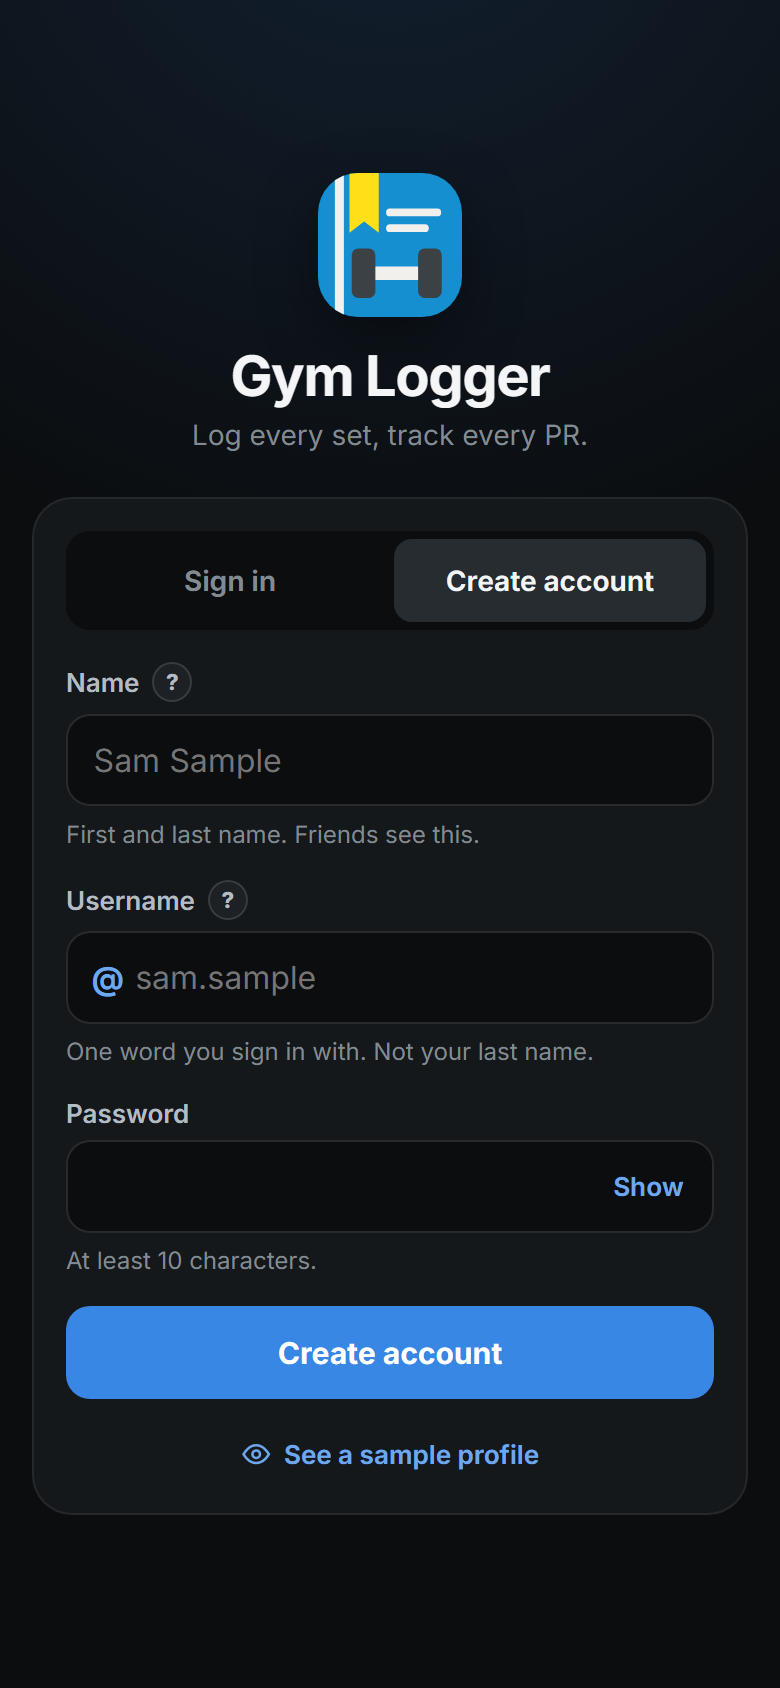
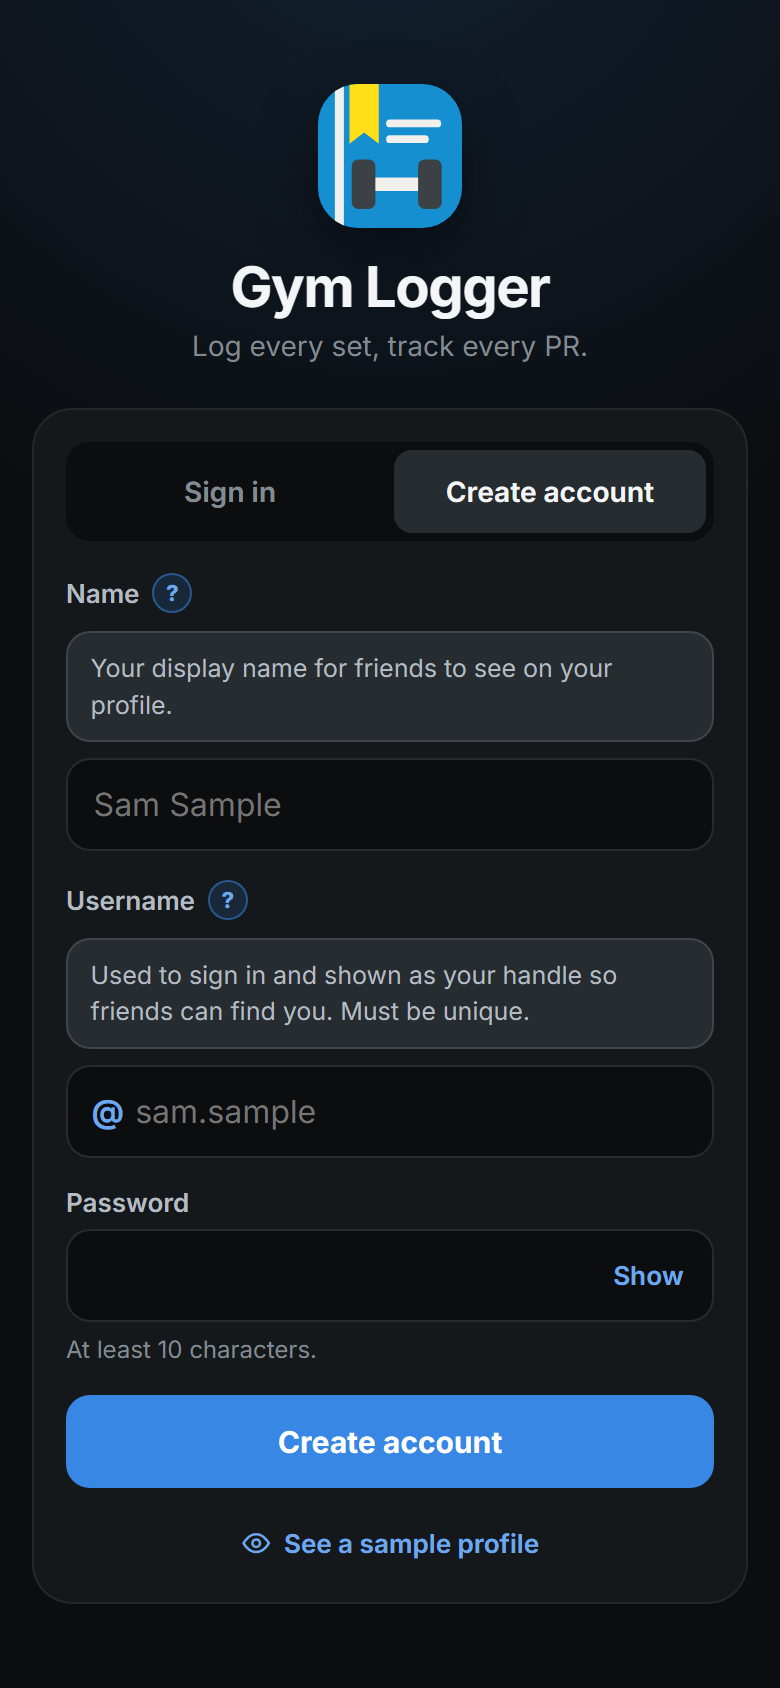
Remove the Name and Username hints on Create account
The ? help now carries the explanation, so the "First and last name"
and "One word you sign in with" hints under the fields are removed.
The release screenshot shows both ? help boxes open.

diff --git a/frontend/src/AuthScreen.tsx b/frontend/src/AuthScreen.tsx
@@ -2,7 +2,6 @@ import { useId, useLayoutEffect, useRef, useState, type FormEvent, type ReactNod
 import {
   DEFAULT_AUTH_CONFIG,
   MIN_PASSWORD_LENGTH,
-  NEW_USERNAME_HINT,
   submitAuthForm,
   type AuthFieldErrors,
   type AuthMode,
@@ -321,7 +320,6 @@ export function AuthScreen({
                 id={ids.name}
                 label="Name"
                 error={fieldErrors.displayName}
-                hint="First and last name. Friends see this."
                 help="Your display name for friends to see on your profile."
               >
                 <input
@@ -334,7 +332,7 @@ export function AuthScreen({
                   placeholder="Sam Sample"
                   value={displayName}
                   aria-invalid={Boolean(fieldErrors.displayName)}
-                  aria-describedby={describedBy(ids.name, fieldErrors.displayName, 'hint')}
+                  aria-describedby={describedBy(ids.name, fieldErrors.displayName)}
                   onChange={(event) => setDisplayName(event.target.value)}
                 />
               </AuthField>
@@ -344,7 +342,6 @@ export function AuthScreen({
               id={ids.username}
               label="Username"
               error={fieldErrors.username}
-              hint={creating ? NEW_USERNAME_HINT : undefined}
               help={
                 creating
                   ? 'Used to sign in and shown as your handle so friends can find you. Must be unique.'
@@ -371,11 +368,7 @@ export function AuthScreen({
                   placeholder={creating ? 'sam.sample' : undefined}
                   value={username}
                   aria-invalid={Boolean(fieldErrors.username)}
-                  aria-describedby={describedBy(
-                    ids.username,
-                    fieldErrors.username,
-                    creating ? 'hint' : undefined,
-                  )}
+                  aria-describedby={describedBy(ids.username, fieldErrors.username)}
                   onChange={(event) => setUsername(event.target.value)}
                 />
               </div>

diff --git a/frontend/src/AuthScreen.test.tsx b/frontend/src/AuthScreen.test.tsx
@@ -39,7 +39,8 @@ describe('AuthScreen', () => {
     expect(markup).toContain('at least 10 characters.');
     expect(markup).toContain('minlength="10"');
     expect(markup).toContain('maxlength="32"');
-    expect(markup).toContain('not your last name.');
+    expect(markup).not.toContain('not your last name.');
+    expect(markup).not.toContain('friends see this.');
     expect(markup).toContain('placeholder="sam.sample"');
     expect(markup).toContain('your display name for friends to see on your profile.');
     expect(markup).toContain('must be unique.');

diff --git a/frontend/src/authForm.ts b/frontend/src/authForm.ts
@@ -4,7 +4,6 @@ import type { AuthConfig, User } from './types';
 export const MIN_PASSWORD_LENGTH = 10;
 export const USERNAME_HINT =
   '3–32 letters, numbers, dots, underscores or hyphens. Start with a letter or number.';
-export const NEW_USERNAME_HINT = 'One word you sign in with. Not your last name.';
 
 export type AuthMode = 'sign-in' | 'create-account';
 

diff --git a/docs/RELEASE-NOTES.md b/docs/RELEASE-NOTES.md
@@ -73,9 +73,9 @@
 
 *Choose Lose, Gain or Maintain when you set a goal.*
 
-![Create account form with Sam Sample and sam.sample placeholders, an @ before the username, and hints under Name and Username](screenshots/releases/0.9.0-signup-name-username.png)
+![Create account form with Sam Sample and sam.sample placeholders, an @ before the username, and the Name and Username ? help open](screenshots/releases/0.9.0-signup-name-username.png)
 
-*Create account shows example placeholders, an @ before the username, and short hints under Name and Username. Captured with isolated sample data.*
+*Tap ? beside Name or Username for a one-line explanation. Captured with isolated sample data.*
 
 - Workout notes now share the summary card with the date, workout type, time, body weight, sets and reps. The notes placeholder is Workout notes…; the divider and volume metric are removed.
 - Plain left and right arrows inside the summary card are vertically centred on the whole card. Browse previous and next workouts with a short directional slide and fade; the latest and oldest arrows dim at the ends.
@@ -109,7 +109,7 @@
 - Arrow colours now follow the goal you had at the time, so older rows keep their meaning after you set a new goal. Weeks and months use the goal in place on their last day.
 - A dotted line marks where each new goal started, with its direction, target and start date, such as Gain to 86 kg · from 16 Oct.
 - Goals can now be Lose, Gain or Maintain. Maintain starts from your current weight; green means you moved back towards it and red means you drifted further away.
-- Create account now shows Sam Sample and sam.sample as example placeholders, an @ before the username, and hints that the name is your first and last name while the username is one word, not your last name.
+- Create account now shows Sam Sample and sam.sample as example placeholders and an @ before the username.
 - The ? help on Name and Username is shorter and plain, and the sharing paragraph above Create account has been removed.
 
 ## 0.8.5
